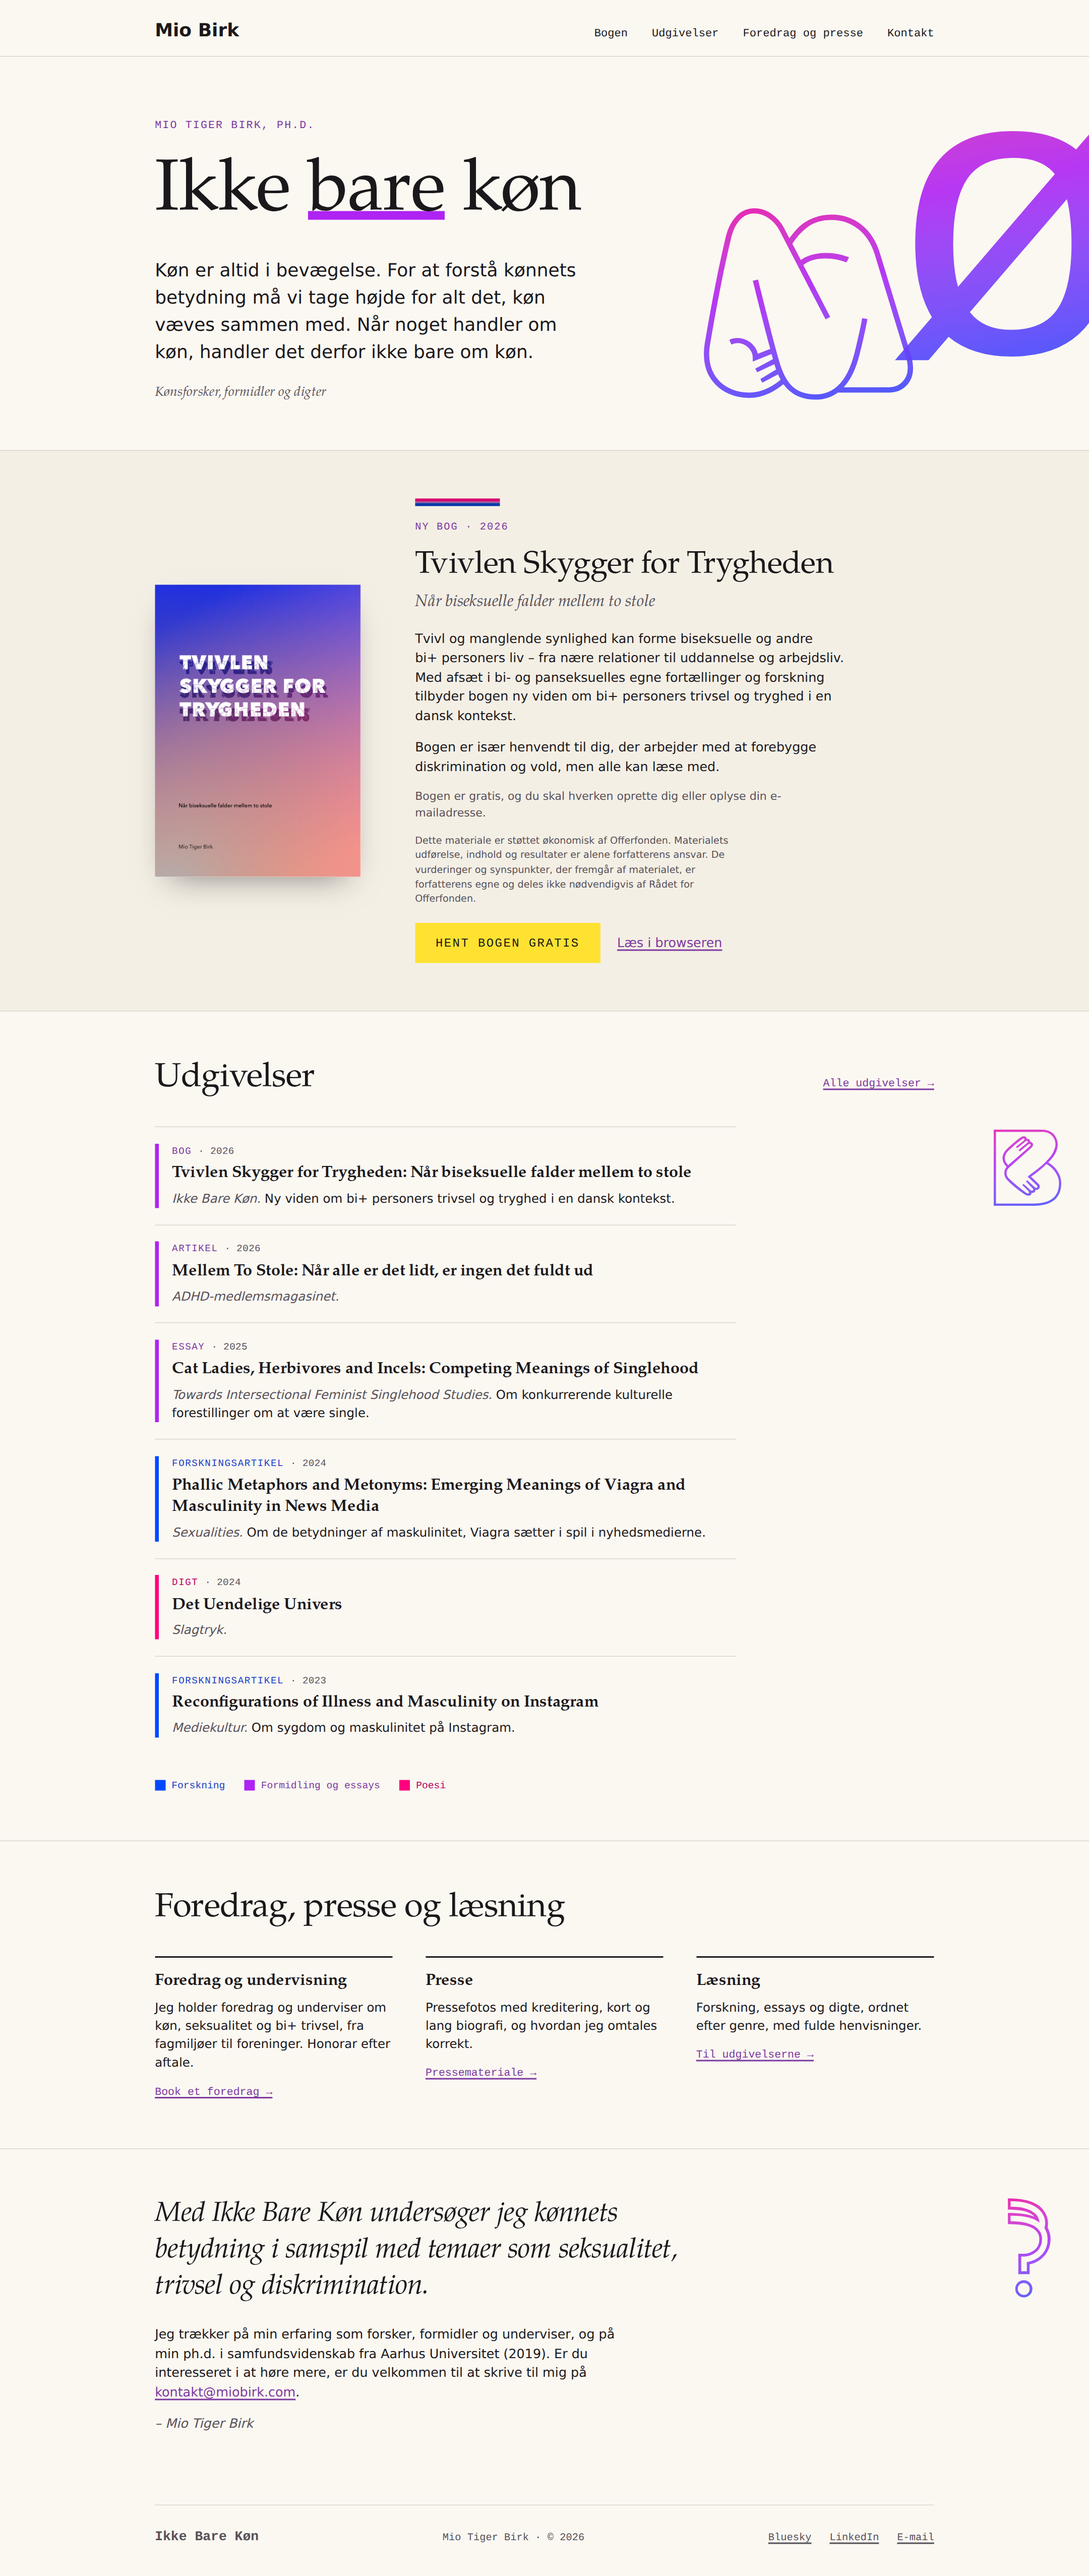
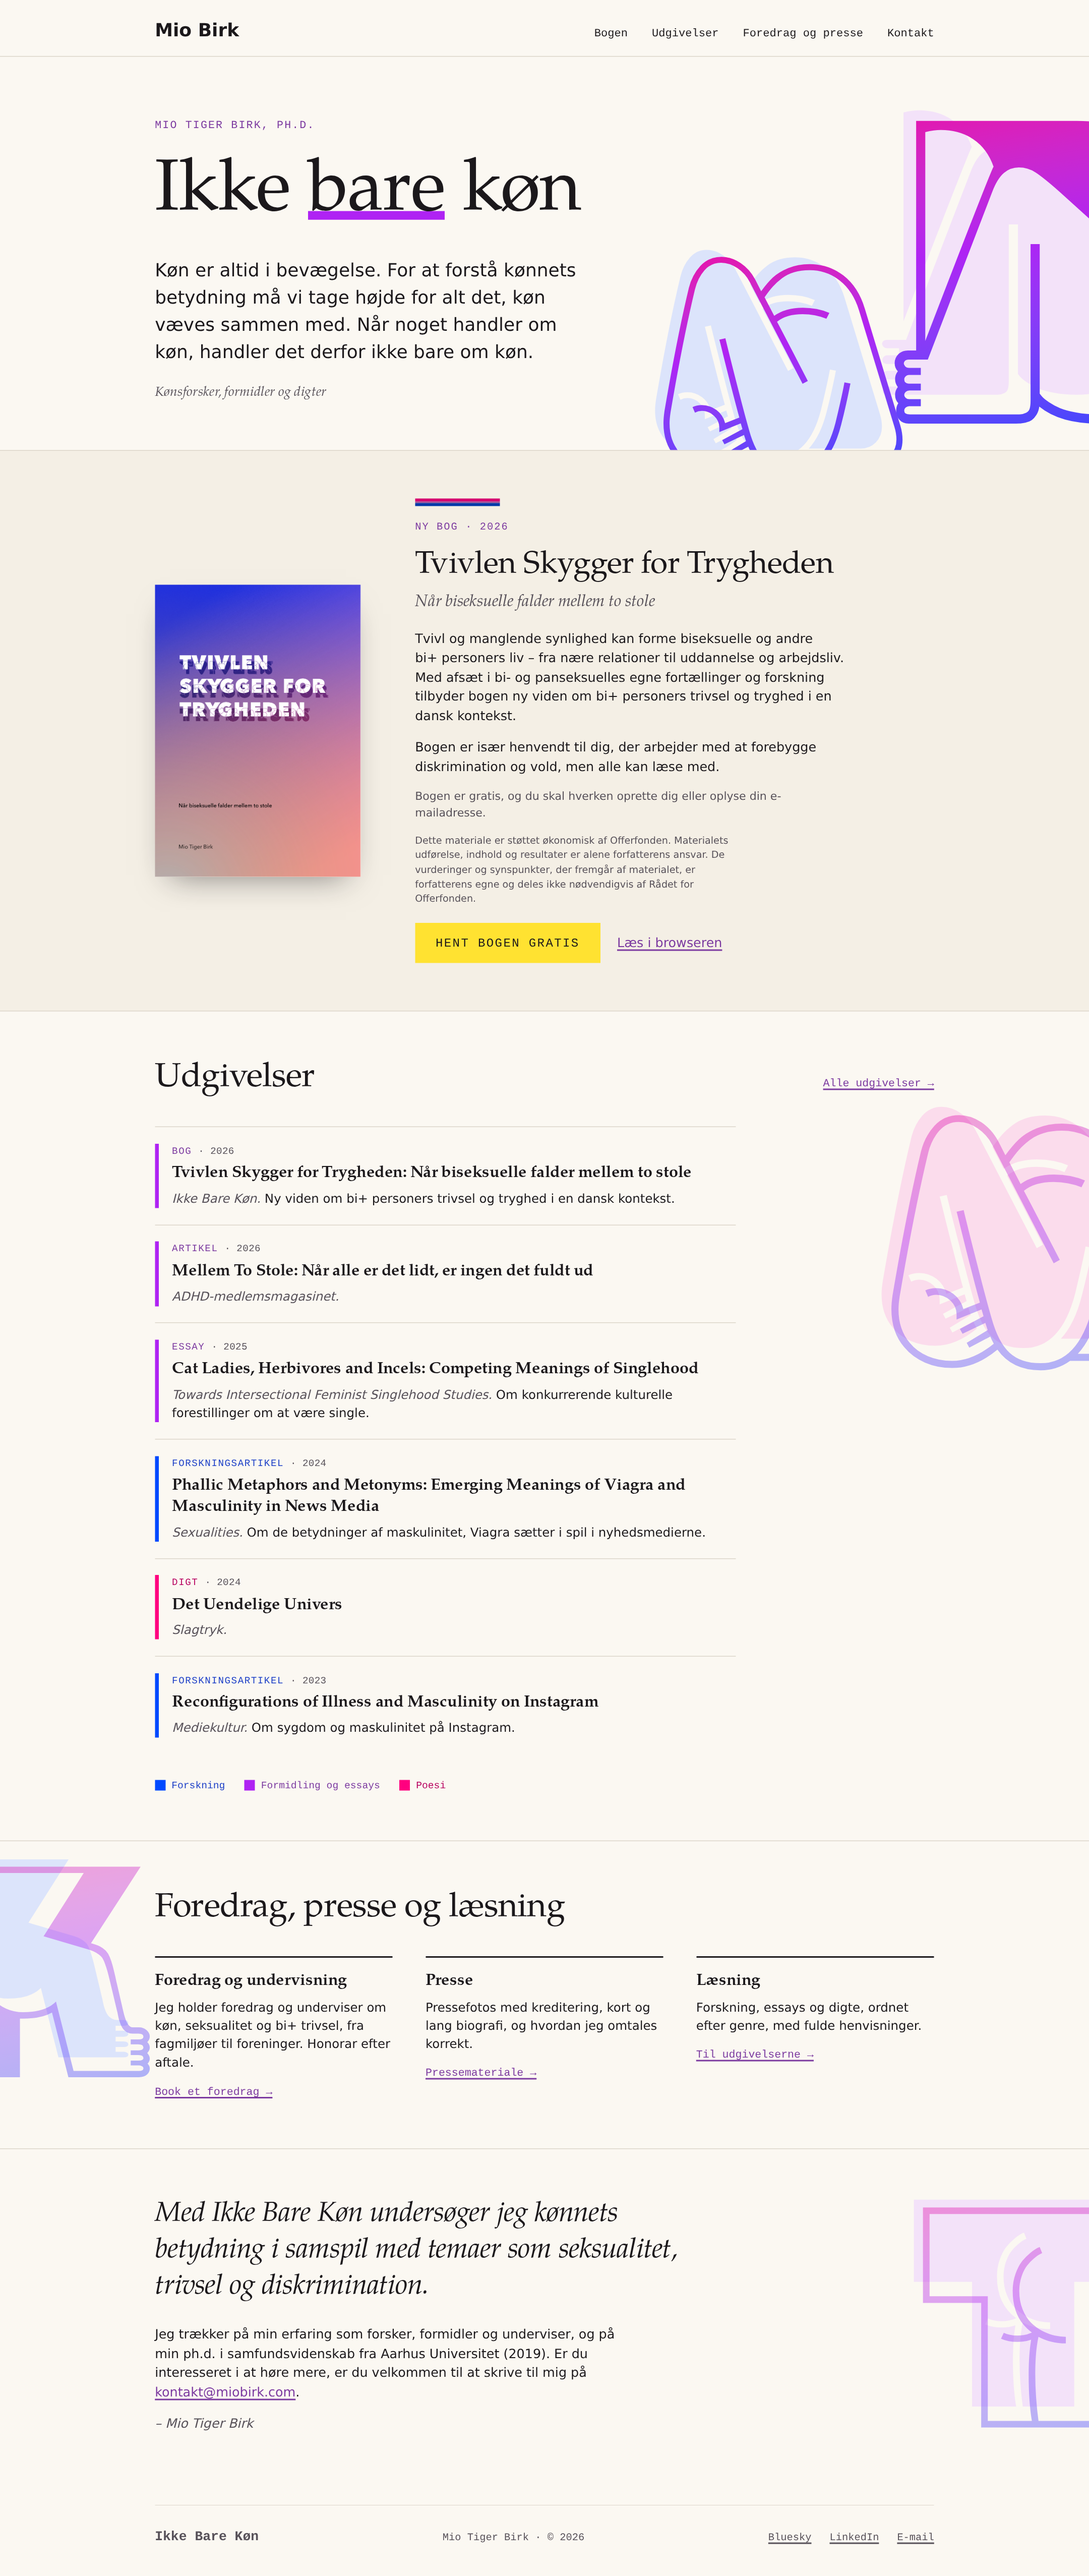
Typefesse parallax background, layered per the foundry's own design
Ole flagged three faults: Danish characters in the vignettes (the
measured cmap confirms Typefesse has no ae/oe-slash glyphs, so the
hero's oe-slash was a fallback), the two margin vignettes too small,
and no background presence; he asked for overlapping Typefesse
characters doing a parallax scroll behind the page.

Researched the variants from Velvetyne's specimen: Claire (contorted
bodies inside letters, the lowercase of the Claire-Obscure file),
Obscure (illustration-like "lock holes", the capitals), and Pleine
(the solid heart, explicitly designed to layer on top of the other
two). The background now follows that intent: five oversized
compositions spanning the document, each a solid Pleine tint under a
gradient Claire/Obscure form offset like the book cover's shadow
play, base Latin only, distributed in open zones with dimmed outlines
near text. Three depth layers parallax at 0.14/0.26/0.40 of scroll
via a small passive-scroll script; static without JS and under
prefers-reduced-motion. The body is now the sky's containing block so
the layer spans the document rather than the viewport.

Claude-Session: https://claude.ai/code/session_01J3ibStbM354Uyysr7SDB7m

diff --git a/design/directions/retning-7-overlappet.html b/design/directions/retning-7-overlappet.html
@@ -58,6 +58,7 @@ body{
   font-family:"Space Grotesk",system-ui,sans-serif;
   font-size:1.06rem;line-height:1.5;
   -webkit-font-smoothing:antialiased;
+  position:relative; /* the fesse-sky sizes against the document, not the viewport */
 }
 .mono{font-family:"Space Mono",monospace}
 .serif{font-family:"TeX Gyre Pagella",Palatino,serif}
@@ -76,23 +77,37 @@ a:focus-visible{outline:2.5px solid var(--ink);outline-offset:3px}
 .flagmark .s2{height:2px;background:var(--flag-lilla)}
 .flagmark .s3{height:4px;background:var(--flag-blaa)}
 
-/* Typefesse vignettes: oversized overlapping glyphs in the background,
-   plus small ones in the margins, as in the book's interior pages. */
-.vignette{
-  position:absolute;line-height:1;pointer-events:none;user-select:none;
+/* Typefesse parallax background. The three styles are designed to be
+   layered (Velvetyne: Pleine "can be used as an additional layer on top
+   of the Claire and Obscure styles"; in the Claire-Obscure file the
+   capitals are Obscure, the lowercase Claire). Each composition stacks a
+   solid Pleine tint under a gradient Claire or Obscure form, offset like
+   the book cover's shadow play. Base Latin only: Typefesse has no
+   ae, oe-slash or their capitals. Three depth layers scroll at
+   different speeds; static without JS or under reduced motion. */
+.fesse-sky{position:absolute;inset:0;overflow:hidden;z-index:0;pointer-events:none;user-select:none}
+.fesse-layer{position:absolute;inset:0;will-change:transform}
+.fesse{position:absolute;line-height:1}
+.fesse b{display:block;font-weight:400}
+.fesse .f-solid{color:var(--tint,#F3E2F9)}
+.fesse .f-open{
+  position:absolute;top:.045em;left:.05em;
   background:linear-gradient(170deg,var(--rosa) 0%,var(--lilla) 48%,var(--blaa) 100%);
   -webkit-background-clip:text;background-clip:text;color:transparent;
 }
-.v-pleine{font-family:'Typefesse Pleine',sans-serif}
-.v-claire{font-family:'Typefesse Claire-Obscure',sans-serif}
-.has-vignettes{position:relative;overflow:hidden}
-.hero .v1{font-size:clamp(18rem,42vw,34rem);top:-.18em;right:-4rem;opacity:.9}
-.hero .v2{font-size:clamp(12rem,26vw,21rem);top:.42em;right:14rem;opacity:.9}
-@media (max-width:56rem){.hero .v1{right:-8rem;opacity:.5}.hero .v2{display:none}}
-.side-vignette{font-size:9rem;opacity:.85}
-#udgivelser .side-vignette{top:8rem;right:2rem}
-#kontakt .side-vignette{top:2.5rem;right:3rem;font-size:11rem}
-@media (max-width:56rem){.side-vignette{display:none}}
+.f-pleine{font-family:'Typefesse Pleine',sans-serif}
+.f-claire{font-family:'Typefesse Claire-Obscure',sans-serif}
+.fesse .f-open.f-dim{opacity:.4}
+.fesse.q1{font-size:clamp(20rem,44vw,36rem);top:1rem;right:-7rem}
+.fesse.q2{font-size:clamp(13rem,30vw,24rem);top:16rem;right:16rem;--tint:#DCE4FB}
+.fesse.q3{font-size:clamp(16rem,34vw,28rem);top:86rem;right:-6rem;--tint:#FBDCEC}
+.fesse.q4{font-size:clamp(14rem,30vw,25rem);top:148rem;left:-8rem;--tint:#DCE4FB}
+.fesse.q5{font-size:clamp(15rem,32vw,26rem);top:176rem;right:-5rem;--tint:#F3E2F9}
+@media (max-width:56rem){
+  .fesse.q2,.fesse.q4{display:none}
+  .fesse{opacity:.55}
+}
+header,main,footer{position:relative;z-index:1}
 
 /* Masthead */
 header .bar{display:flex;justify-content:space-between;align-items:baseline;gap:1rem;flex-wrap:wrap;padding:1.4rem 0 1rem}
@@ -197,6 +212,20 @@ footer .flinks{display:flex;gap:1.5rem}
 <body>
 <a class="skip" href="#indhold">Gå til indhold</a>
 
+<div class="fesse-sky" aria-hidden="true">
+  <div class="fesse-layer" data-speed="0.14">
+    <span class="fesse q3"><b class="f-pleine f-solid">m</b><b class="f-claire f-open f-dim">m</b></span>
+    <span class="fesse q5"><b class="f-pleine f-solid">t</b><b class="f-claire f-open f-dim">t</b></span>
+  </div>
+  <div class="fesse-layer" data-speed="0.26">
+    <span class="fesse q1"><b class="f-pleine f-solid">B</b><b class="f-claire f-open">B</b></span>
+    <span class="fesse q4"><b class="f-pleine f-solid">K</b><b class="f-claire f-open f-dim">K</b></span>
+  </div>
+  <div class="fesse-layer" data-speed="0.4">
+    <span class="fesse q2"><b class="f-pleine f-solid">m</b><b class="f-claire f-open">m</b></span>
+  </div>
+</div>
+
 <header>
   <div class="wrap">
     <div class="bar">
@@ -214,9 +243,7 @@ footer .flinks{display:flex;gap:1.5rem}
 </header>
 
 <main id="indhold">
-  <section class="hero has-vignettes">
-    <span class="vignette v-pleine v1" aria-hidden="true">ø</span>
-    <span class="vignette v-claire v2" aria-hidden="true">m</span>
+  <section class="hero">
     <div class="wrap">
       <p class="kicker">Mio Tiger Birk, ph.d.</p>
       <h1>Ikke <span class="u">bare</span> køn</h1>
@@ -260,8 +287,7 @@ footer .flinks{display:flex;gap:1.5rem}
     </div>
   </section>
 
-  <section class="sec has-vignettes" id="udgivelser" aria-labelledby="pub-h">
-    <span class="vignette v-claire side-vignette" aria-hidden="true">b</span>
+  <section class="sec" id="udgivelser" aria-labelledby="pub-h">
     <div class="wrap">
       <div class="sec-head">
         <h2 id="pub-h">Udgivelser</h2>
@@ -335,8 +361,7 @@ footer .flinks{display:flex;gap:1.5rem}
     </div>
   </section>
 
-  <section class="sec has-vignettes" id="kontakt" aria-labelledby="om-h">
-    <span class="vignette v-claire side-vignette" aria-hidden="true">?</span>
+  <section class="sec" id="kontakt" aria-labelledby="om-h">
     <div class="wrap">
       <div class="om">
         <h2 id="om-h" style="position:absolute;left:-9999px">Om og kontakt</h2>
@@ -365,5 +390,27 @@ footer .flinks{display:flex;gap:1.5rem}
     </div>
   </div>
 </footer>
+
+<script>
+(function(){
+  var reduce=window.matchMedia('(prefers-reduced-motion: reduce)');
+  var layers=[].slice.call(document.querySelectorAll('.fesse-layer'));
+  if(!layers.length) return;
+  var ticking=false;
+  function apply(){
+    ticking=false;
+    if(reduce.matches){layers.forEach(function(l){l.style.transform='none'});return}
+    var y=window.scrollY||0;
+    layers.forEach(function(l){
+      var k=parseFloat(l.dataset.speed)||0.2;
+      l.style.transform='translate3d(0,'+(y*k)+'px,0)';
+    });
+  }
+  function onScroll(){if(!ticking){ticking=true;requestAnimationFrame(apply)}}
+  window.addEventListener('scroll',onScroll,{passive:true});
+  reduce.addEventListener?reduce.addEventListener('change',apply):null;
+  apply();
+})();
+</script>
 </body>
 </html>

diff --git a/design/TYPOGRAPHY-COLOUR.md b/design/TYPOGRAPHY-COLOUR.md
@@ -169,3 +169,30 @@ Space Grotesk 400 (reload.dk); functional layer and buttons in Space Mono
 400 (reload.dk); Typefesse as the illustration layer. Note the Pagella
 licence is GUST/LPPL-derived rather than OFL: free and redistributable,
 recorded here as a conscious deviation matching the book's own typography.
+
+## Typefesse variant research (Ole's request, 2026-07-11)
+
+From Velvetyne's own specimen text (Océane Juvin): Typefesse's three
+styles are named after the moon. **Claire** is the most agile and
+contorted, bodies twisting to fit inside the letters, and when set
+together the letters "snuggle against each other". **Obscure** is the
+most graphical and illustration-like, the alphabet as "lock holes"
+through which the reader sees the backside of letters. **Pleine** is the
+heart of the letters, the most readable, and is explicitly designed to
+"be used as an additional layer on top of the Claire and Obscure
+styles". The two shipped files encode this: Typefesse Claire-Obscure
+sets capitals in Obscure and lowercase in Claire; Typefesse Pleine is
+the solid layer. The intended interplay is chromatic layering: Pleine in
+one colour with Claire or Obscure superimposed in another.
+
+Charset, measured from the shipped woff2 cmaps (173 glyphs): basic Latin
+plus Western European accents; **no æ, ø, Æ or Ø** (å and Å exist).
+Vignettes therefore use base Latin characters only.
+
+The site's implementation: a document-spanning background layer of five
+oversized compositions, each stacking a solid Pleine tint under a
+gradient Claire or Obscure form offset like the book cover's shadow
+play, distributed in the page's open zones with dimmed outline layers
+where they pass near text. Three depth layers parallax-scroll at 0.14,
+0.26 and 0.40 of scroll speed via a small script; the background is
+static without JavaScript and under prefers-reduced-motion.
